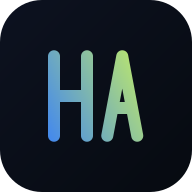
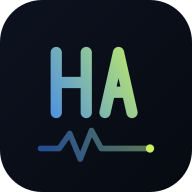
Combine HA monogram with pulse-line accent, add force-update to login screen
Icon: kept the HA letterforms as the main mark and brought back the
pulse-line as a smaller, lower-opacity signature underneath instead of
choosing one over the other.

AuthScreen: added a "Forzar actualización de la app" link (same
unregister-SW + clear-caches + reload logic as Settings) so a user stuck
on the login screen with a stale cached build can still recover without
needing to reach the authenticated part of the app.

https://claude.ai/code/session_01Ppy7SYUstkJmPGmyMFznJZ

Changed region(s): [[0.1875, 0.2188, 0.8125, 0.8438]]

diff --git a/src/components/AuthScreen.jsx b/src/components/AuthScreen.jsx
@@ -44,6 +44,20 @@ export default function AuthScreen() {
     // on success App.jsx's onAuthStateChange picks up the new session automatically
   };
 
+  const handleForceUpdate = async () => {
+    try {
+      if ('serviceWorker' in navigator) {
+        const regs = await navigator.serviceWorker.getRegistrations();
+        await Promise.all(regs.map(r => r.unregister()));
+      }
+      if ('caches' in window) {
+        const keys = await caches.keys();
+        await Promise.all(keys.map(k => caches.delete(k)));
+      }
+    } catch {}
+    window.location.reload();
+  };
+
   const inp = { background: C.surface, border: `1px solid ${C.border}`, borderRadius: 10, padding: '12px 14px', color: C.text, fontFamily: mono, fontSize: 14, outline: 'none', width: '100%' };
 
   if (!supabaseConfigured) {
@@ -122,6 +136,14 @@ export default function AuthScreen() {
             </button>
           </>
         )}
+
+        <button
+          onClick={handleForceUpdate}
+          style={{ width: '100%', marginTop: 28, padding: 0, background: 'none', border: 'none', color: C.textLow, fontFamily: mono, fontSize: 11, cursor: 'pointer', display: 'flex', alignItems: 'center', justifyContent: 'center', gap: 6 }}
+        >
+          <Icon name="refresh" size={12} color={C.textLow} />
+          Forzar actualización de la app
+        </button>
       </div>
     </div>
   );
